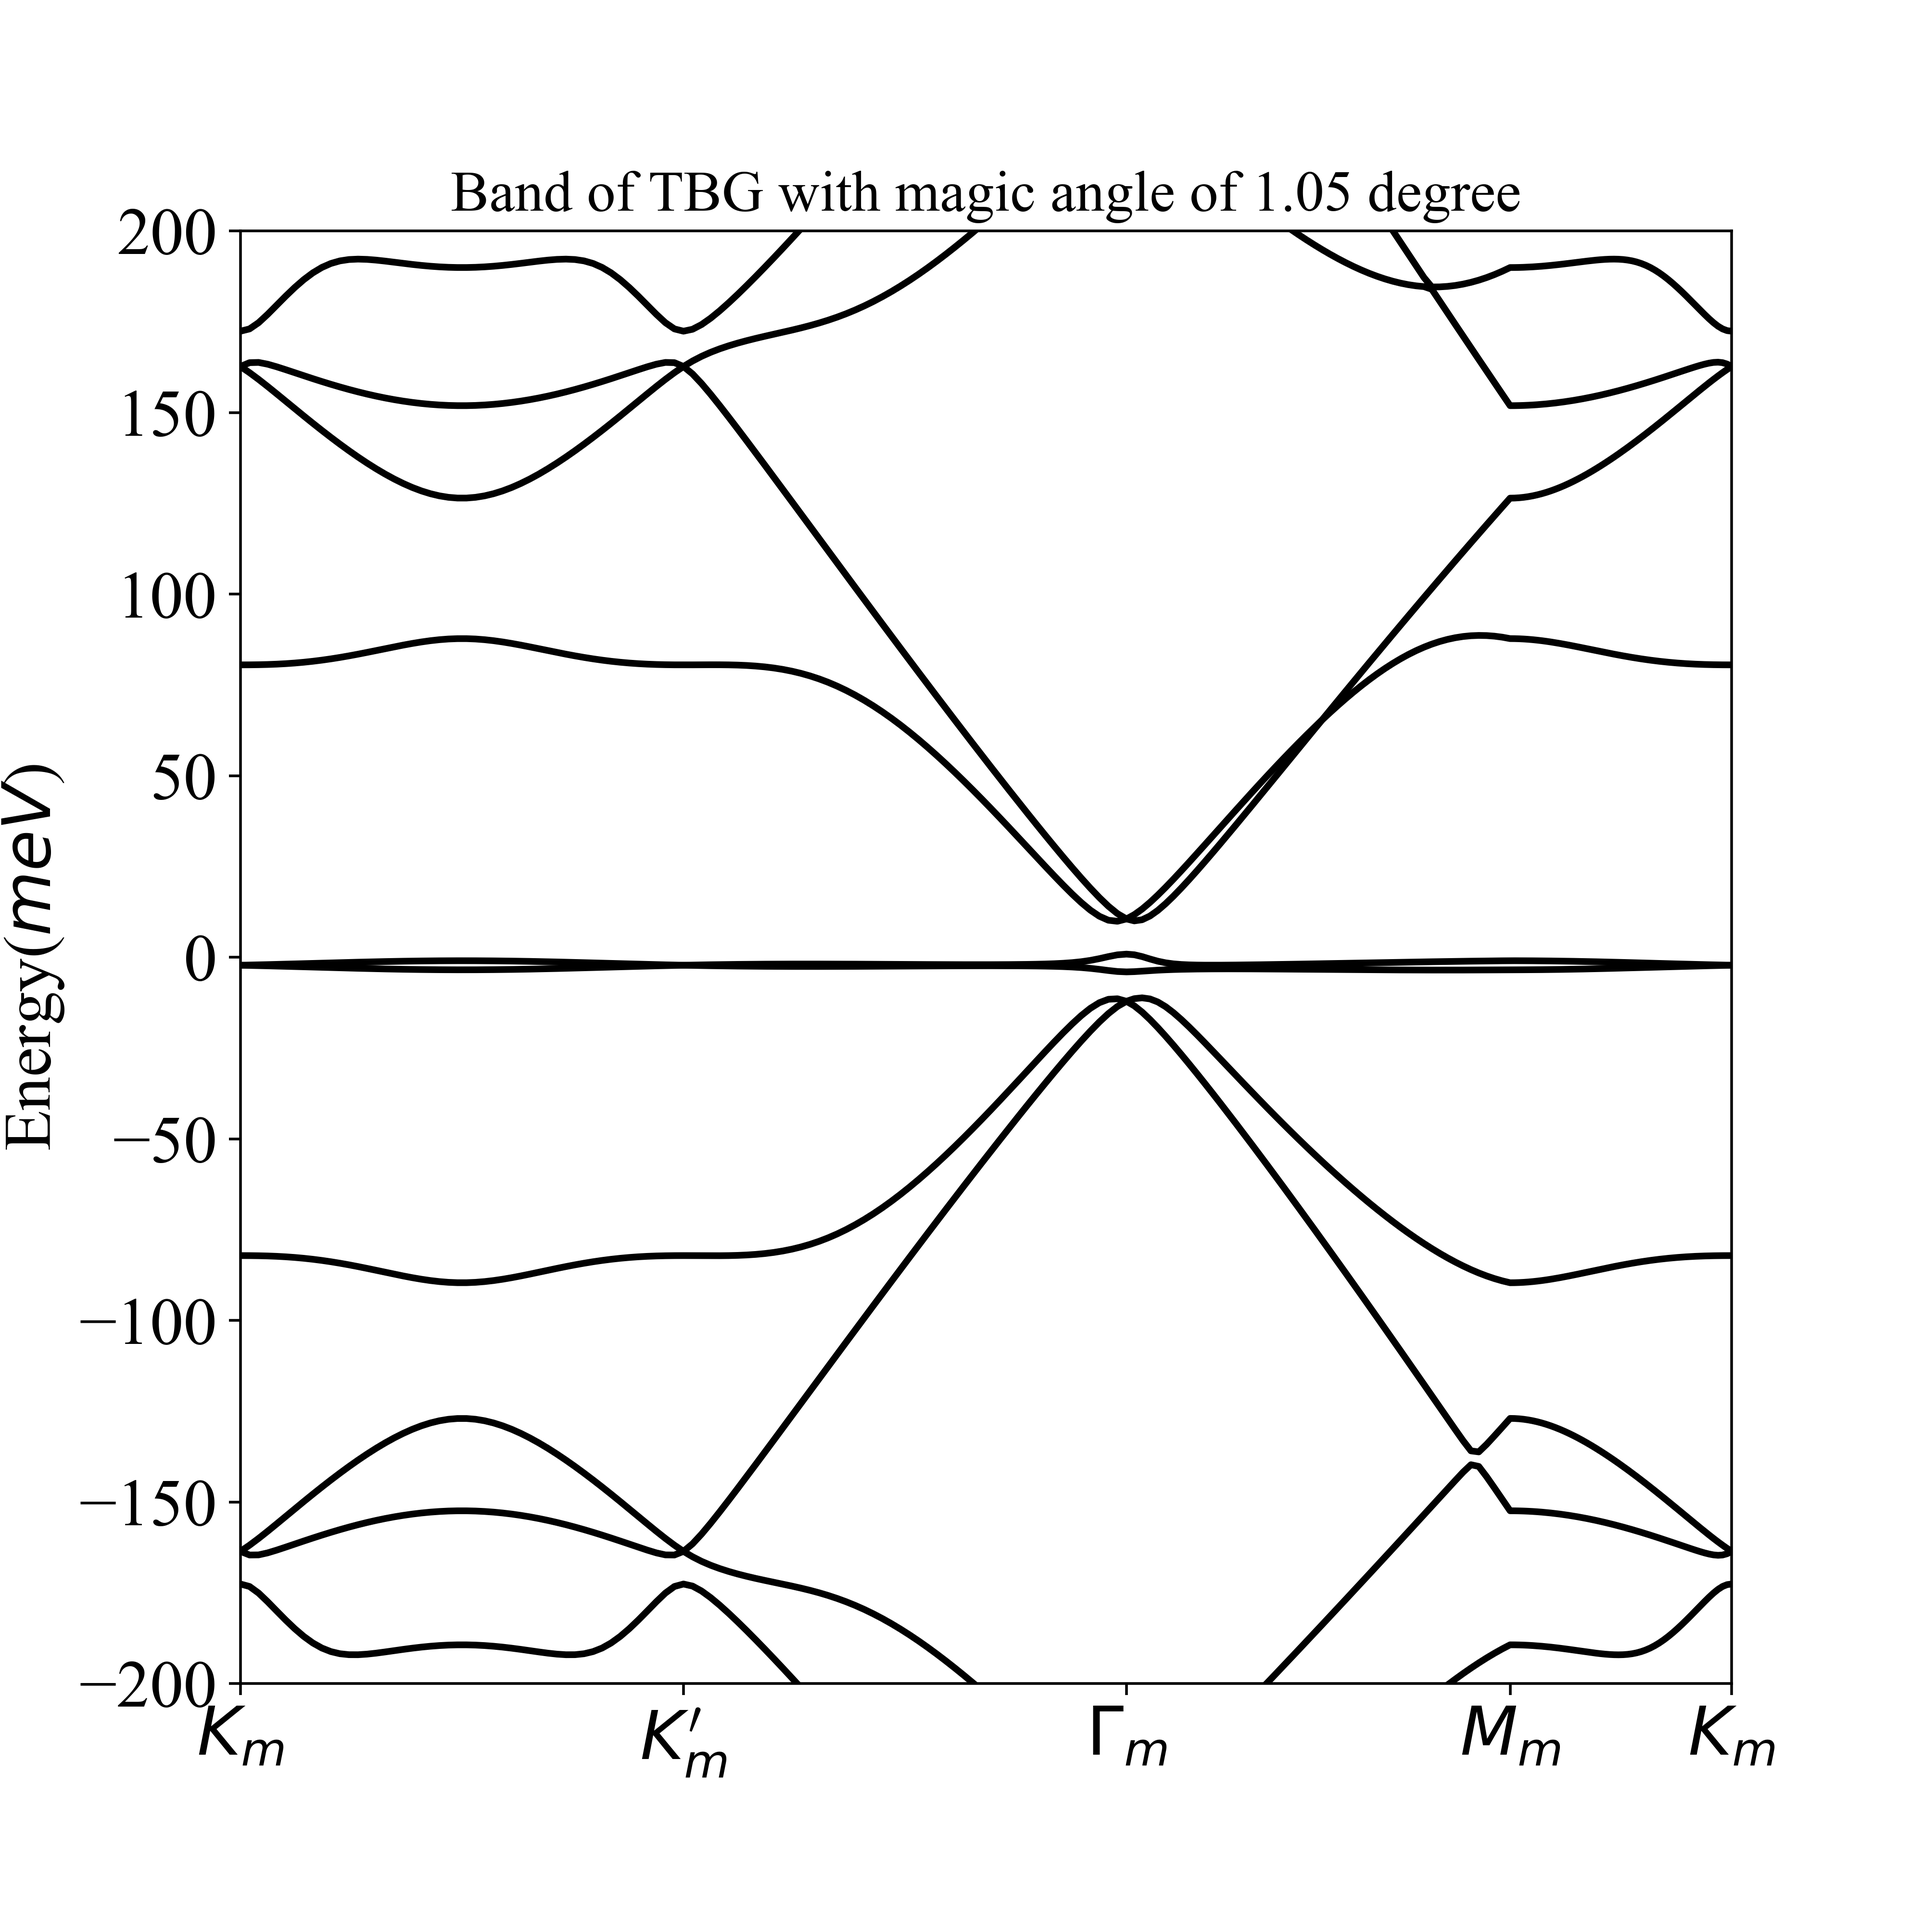
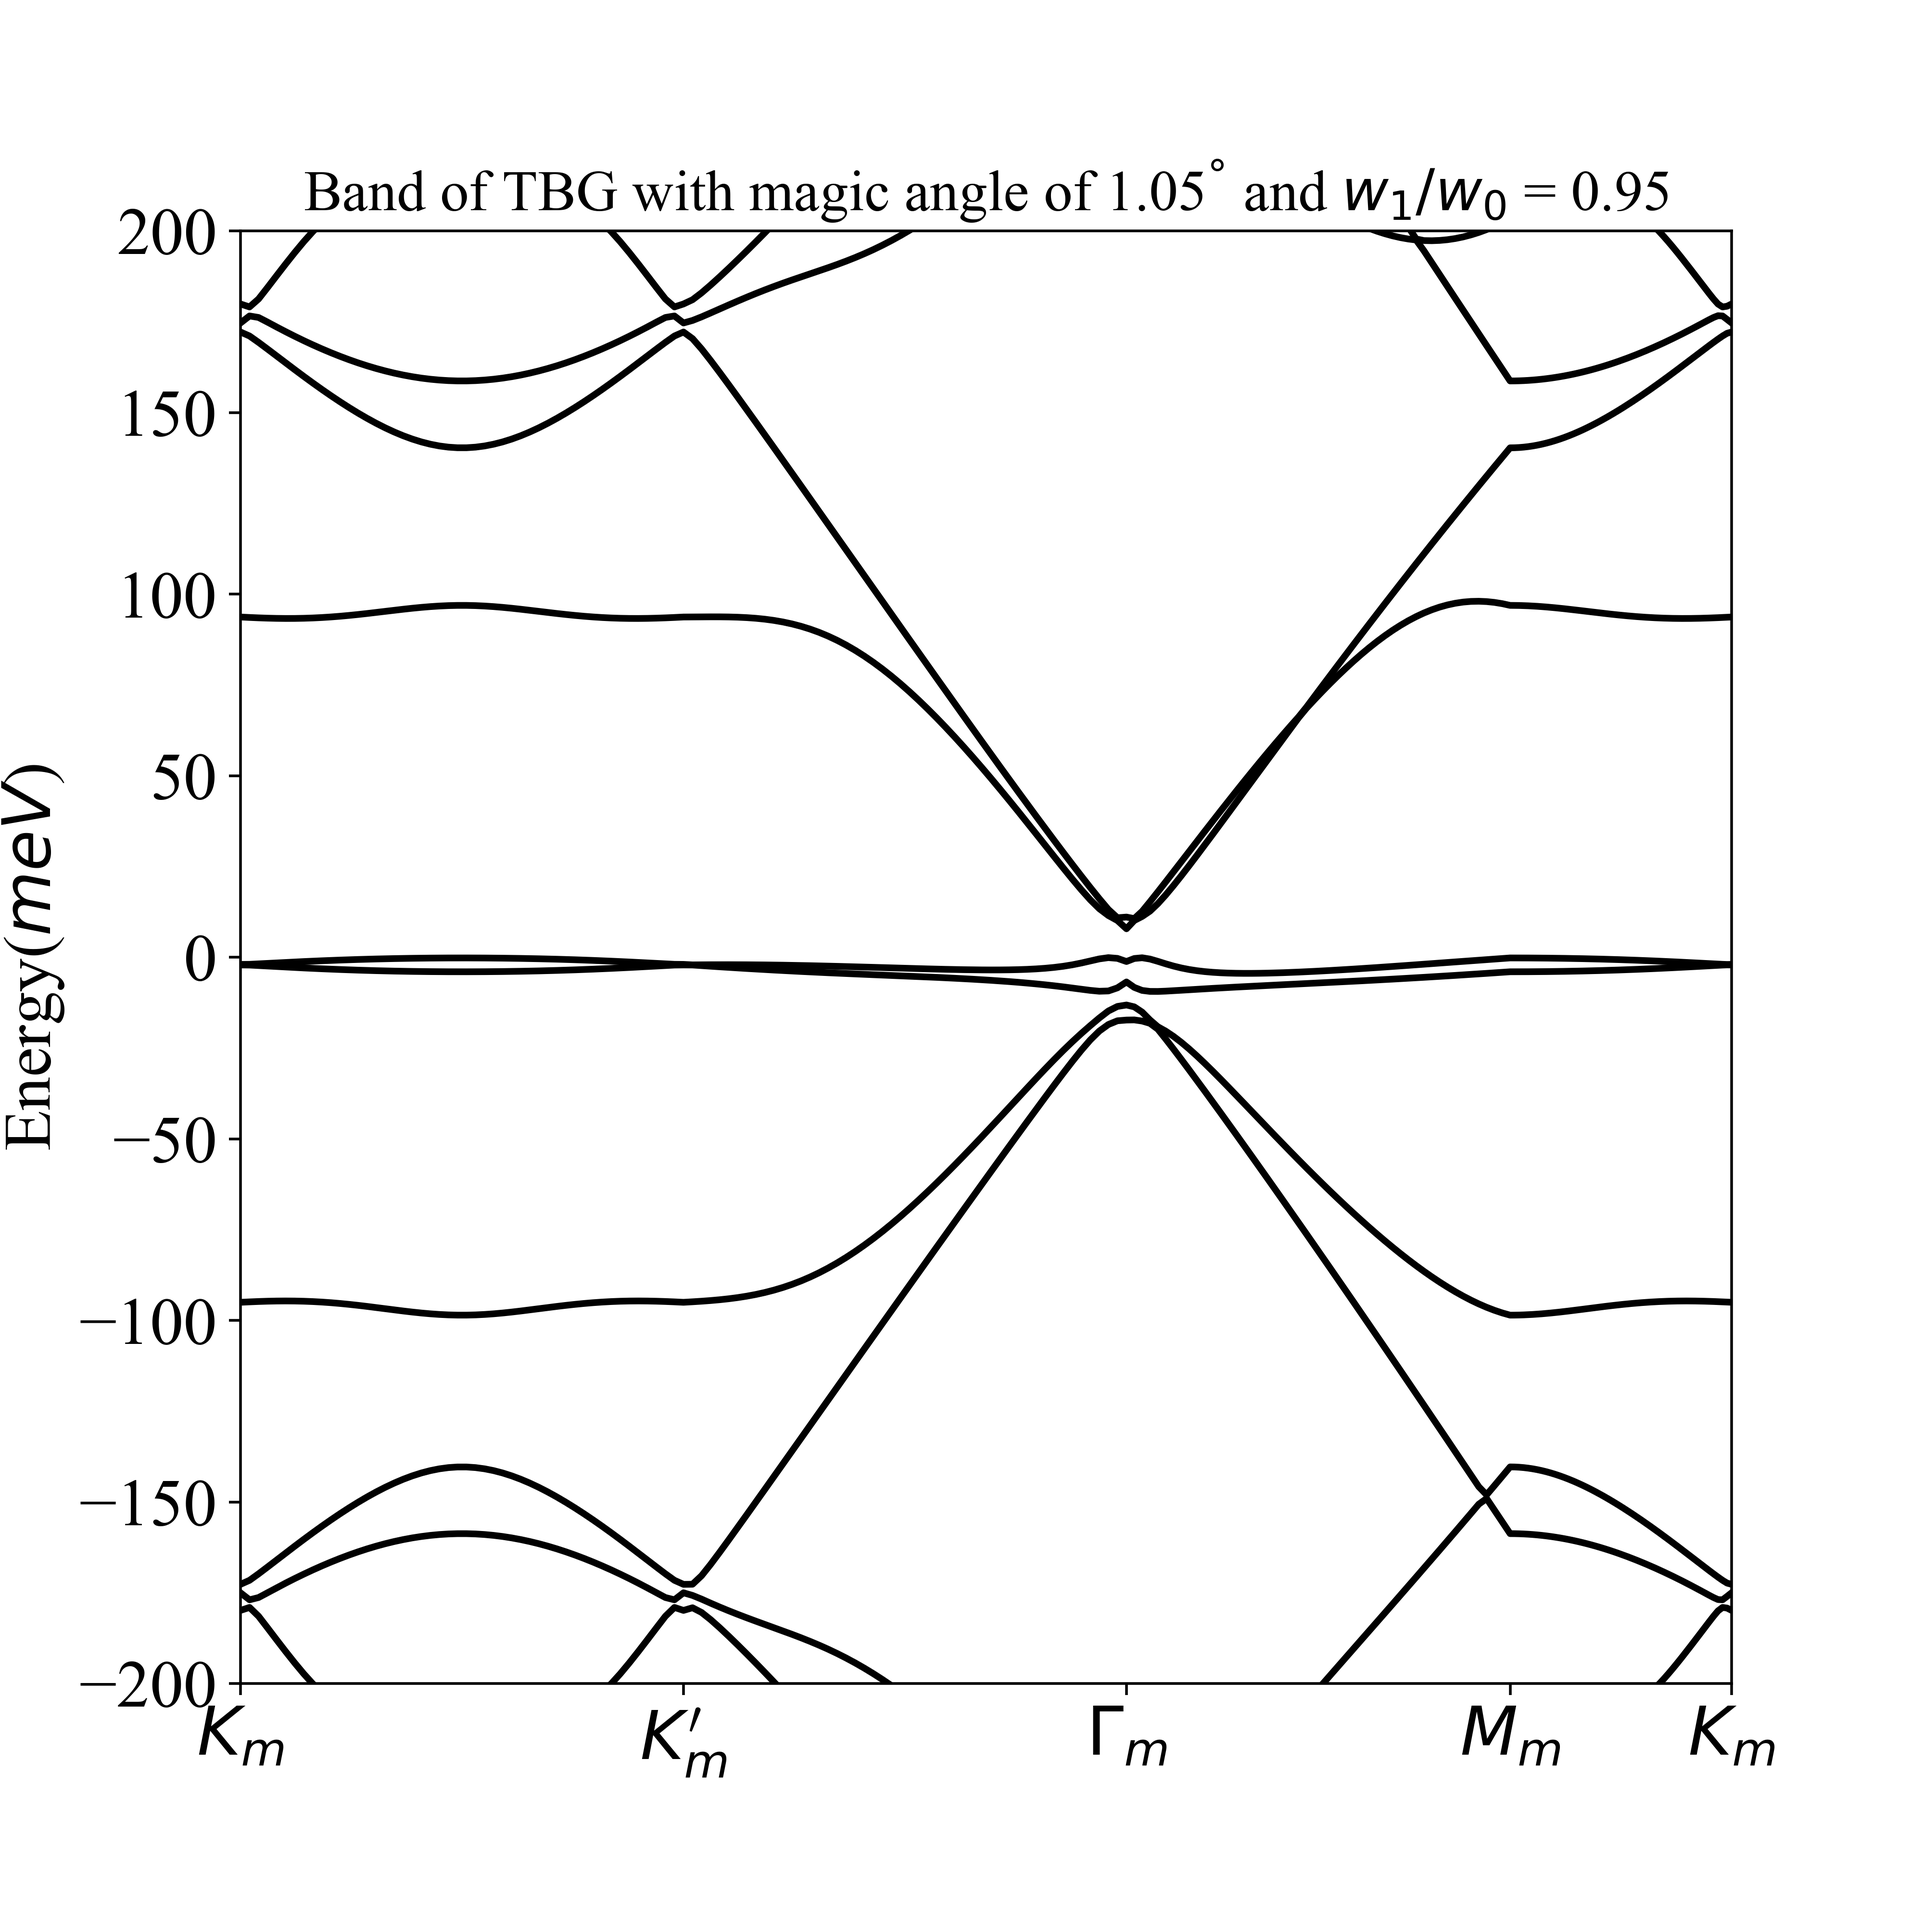
add infer part

diff --git a/plot_band.py b/plot_band.py
@@ -81,7 +81,7 @@ def plot_band():
         plt.plot(k_path, eig, "black", linewidth=2)   
     
     plt.xlim(0, k_path[-1])
-    plt.ylim(-200,200)
+    plt.ylim(-250,250)
     plt.xticks(Node, k_sym_label) 
     #plt.xlabel("$K$-points", font)
     plt.ylabel("Energy($meV$)", font)
@@ -90,10 +90,10 @@ def plot_band():
     plt.yticks(fontproperties = "Times New Roman", fontsize=20)
     #plt.text(0.2,6.1, "(a)", fontsize=20, style= "Times New Roman")
     #plt.text(4.5,5, "$\mathregular{\Delta J_2 / D = 0.1}$", fontdict = font_txt)
-    title = "Band of TBG with magic angle of {} degree".format(theta_v)
+    title = r"Band of TBG with magic angle of {}$^\degree$ and ".format(theta_v) + r"$w_{1}/w_{0}$ = " + str(r1)
     plt.title(title,loc = "center",fontdict={"size":"xx-large","color":"black", "family":"Times New Roman"})
     
-    plt.savefig("./figure/MATBG_{}.png".format(theta_v), dpi=500)
+    plt.savefig("./figure/MATBG_{}_{}.png".format(theta_v, r1), dpi=500)
     
     plt.show()
 

diff --git a/MATBG_Ham.py b/MATBG_Ham.py
@@ -9,8 +9,9 @@ from numpy import *
 import numpy as np
 from config import *
 
-def T_mat(j):    
-    return w0*s0 + w1*(cos((2*pi/3)*(j-1))*sx + sin((2*pi/3)*(j-1))*sy)
+#define the interlayer hopping term matrix Tth
+def T_mat(i):    
+    return w0*s0 + w1*(cos((2*pi/3)*(i-1))*sx + sin((2*pi/3)*(i-1))*sy)
 
 Tqb    =  T_mat(1)
 Tqtr   =  T_mat(2)

diff --git a/config.py b/config.py
@@ -11,7 +11,8 @@ import numpy as np
 #define constant
 theta_v  = 1.05           #degree
 w1  = 110.7          #interlayer hopping term //mev
-w0 = w1*(0.95)
+r1 = 0.8  # w1/w0
+w0 = w1*(r1)
 d      = 1.420          #angstrom, whatever is ok.
 hv     = 1.5*d*2970     #meV*angstrom, Fermi velocity for SLG
 N      = 3              #truncate range
